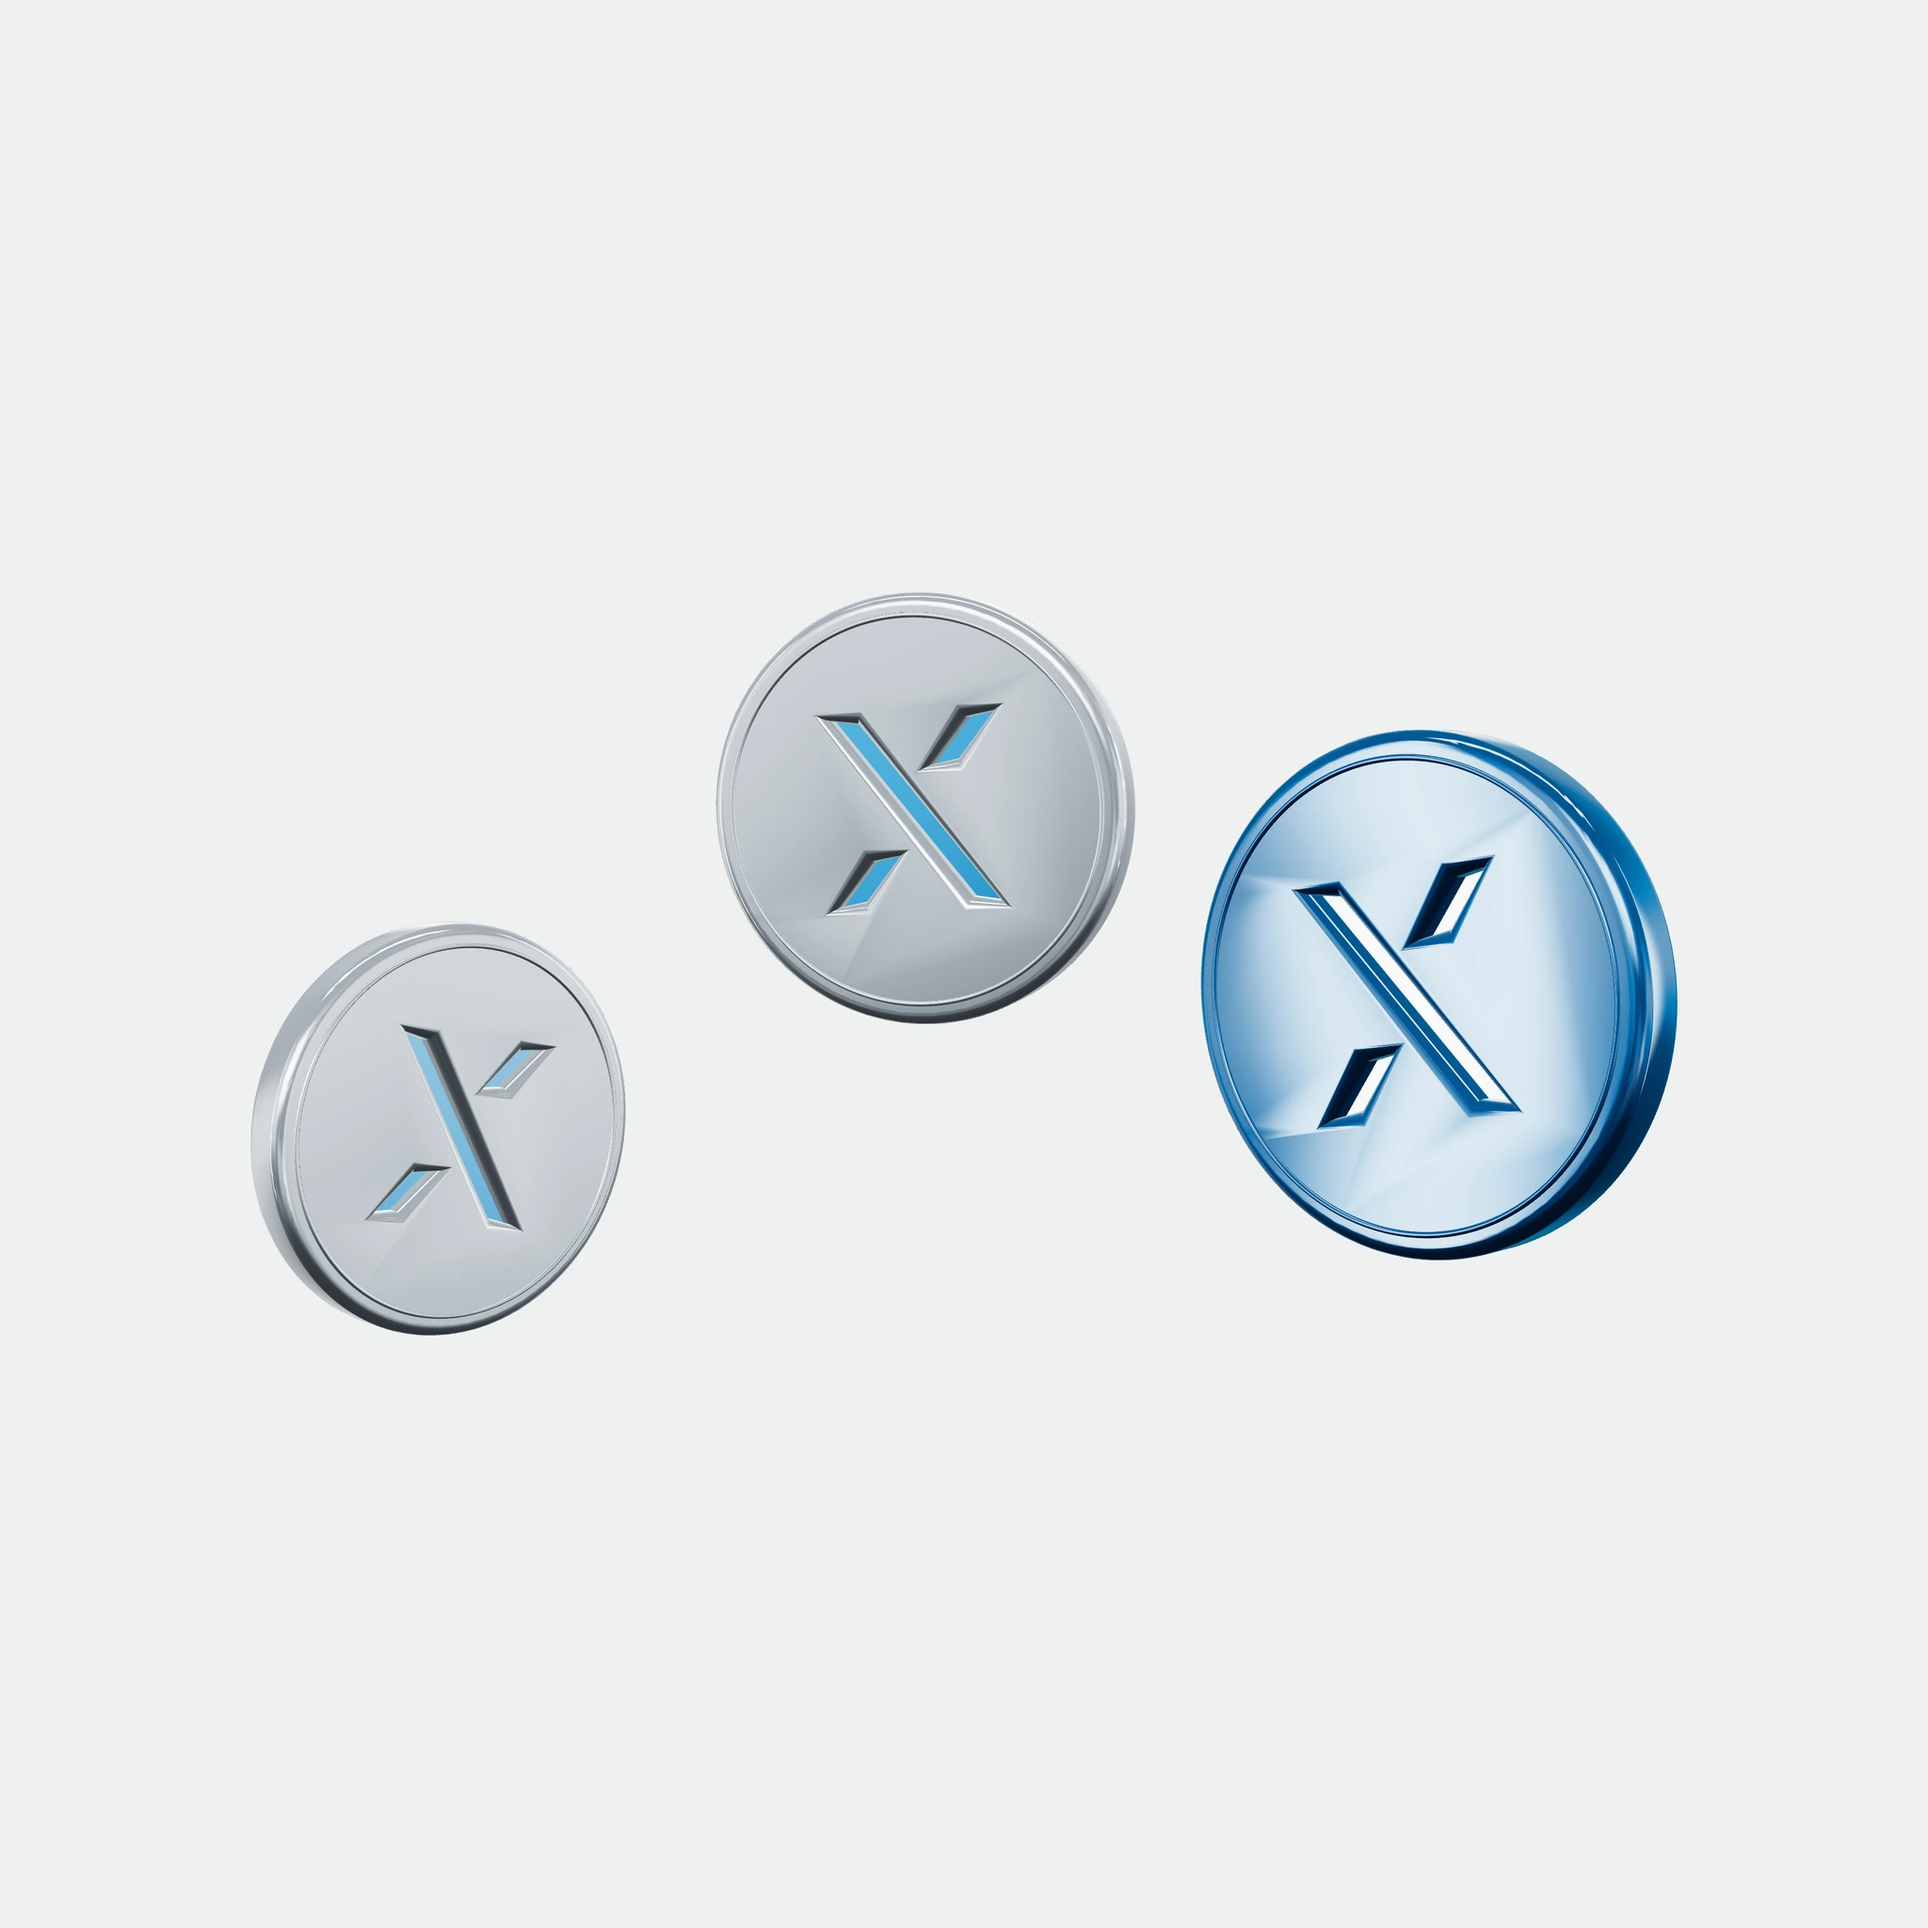
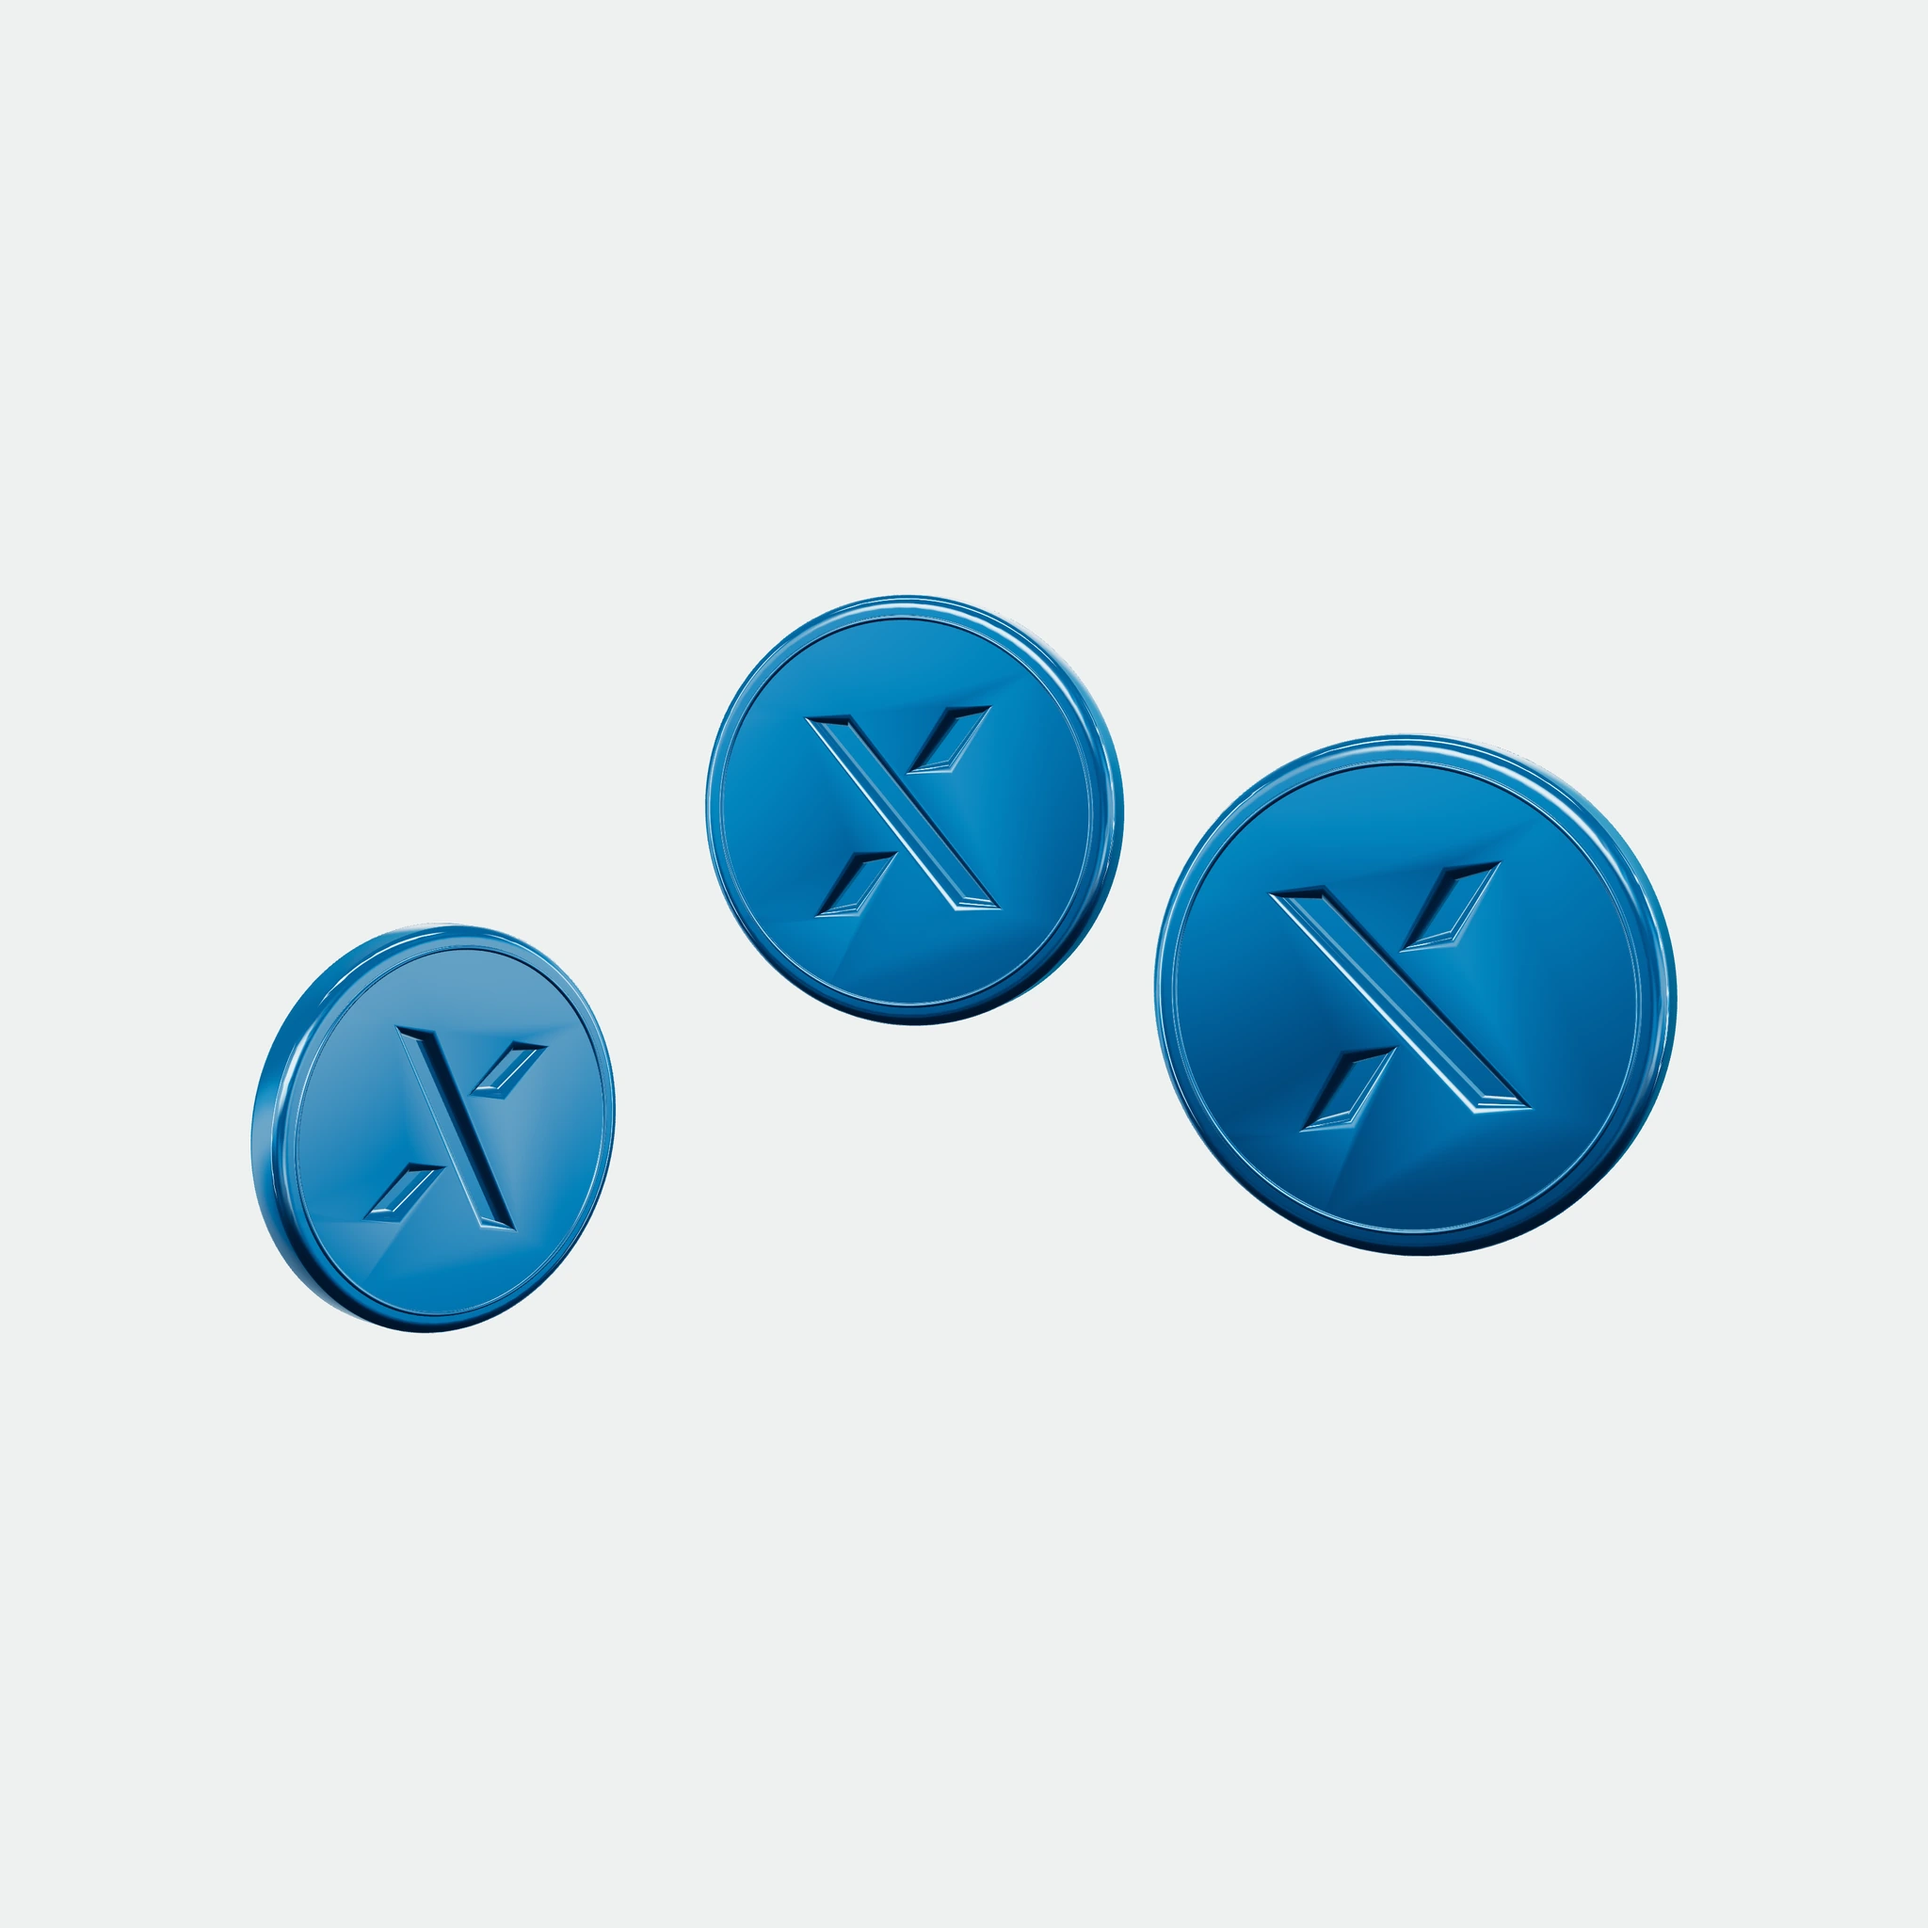
10X Trader panel: use the 10X coin exactly as the 10x-trader project builds it
All three coins are now the unmodified coin from the 10x-trader zip:
blue preset, brand blue tint, engraved mark, the project's own studio
environment, tone mapping and exposure. The silver variants and swapped
mark colours are gone; only the placement differs. The right coin is
turned a little less so its face keeps the coin's deep blue instead of
catching the key light.

Claude-Session: https://claude.ai/code/session_01Jbk7wbV2RafrwvkAWUkHj8

Changed region(s): [[0.3438, 0.2812, 0.875, 0.6562], [0.125, 0.4688, 0.3438, 0.7188]]

diff --git a/10x-affiliation/README.md b/10x-affiliation/README.md
@@ -61,8 +61,9 @@ can route to the right partner manager.
   grey, graded like the videos and framed like glass-3: top-right, cropped by the top edge, ending
   above each card's caption. 2048px, WebP quality 92.
 - `coins-trader.webp` (the 10X Trader panel) is a still of three 10X coins rendered with the coin
-  model from the 10x-trader project (`src/coin/coin3d.ts`): two silver coins with blue marks and a
-  blue coin with a silver mark, rendered at 3200px over #EEF1F1 and saved at 2048px, WebP quality 92.
+  model from the 10x-trader project (`src/coin/coin3d.ts`) exactly as that project builds it: blue
+  preset, brand blue #4bbdf0, engraved mark, its own studio environment and renderer settings. Only
+  the placement is new. Rendered at 3200px over #EEF1F1 and saved at 2048px, WebP quality 92.
 - The `glass-*.webp` stills were restored from heavily compressed 1024px copies with
   Real-ESRGAN x4plus, then set back to the flat studio grey (#EFF2F1) and saved at 2048px, WebP
   quality 92. glass-1 and glass-2 are also graded to match glass-3 (cyan-teal glass, orange copper,
